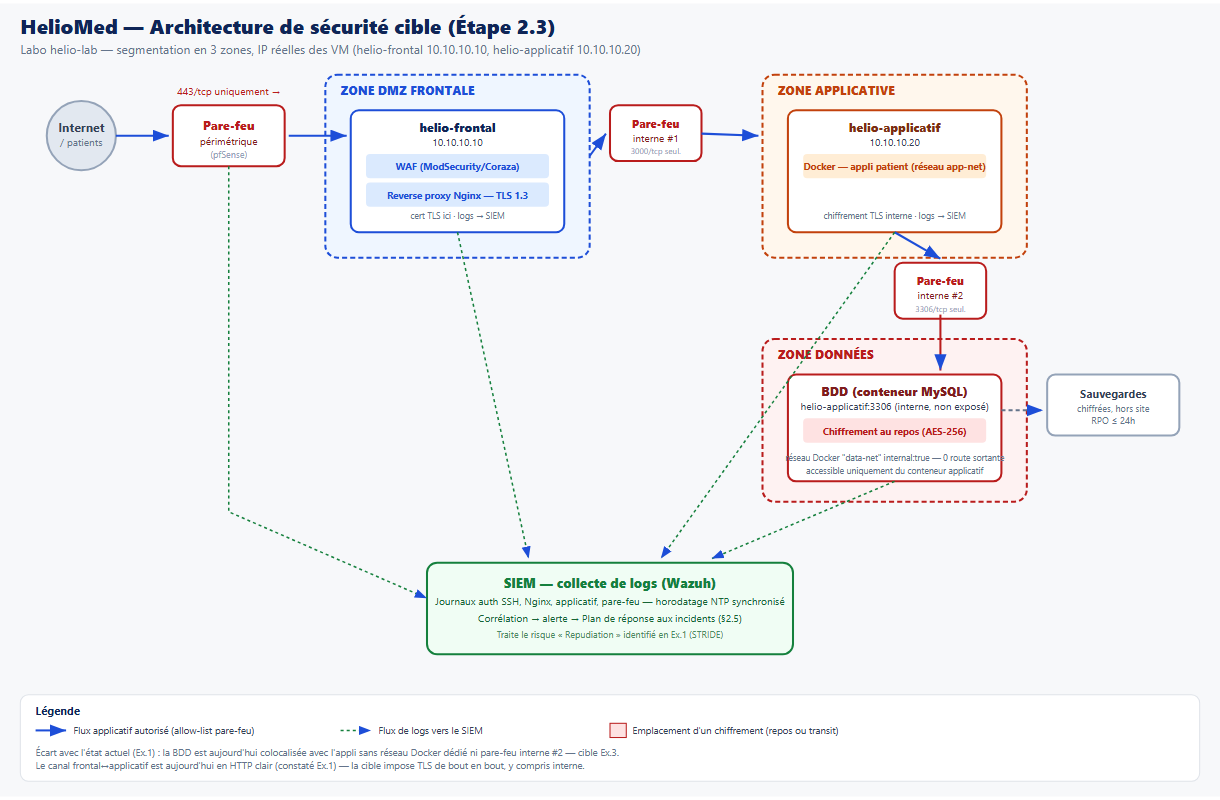
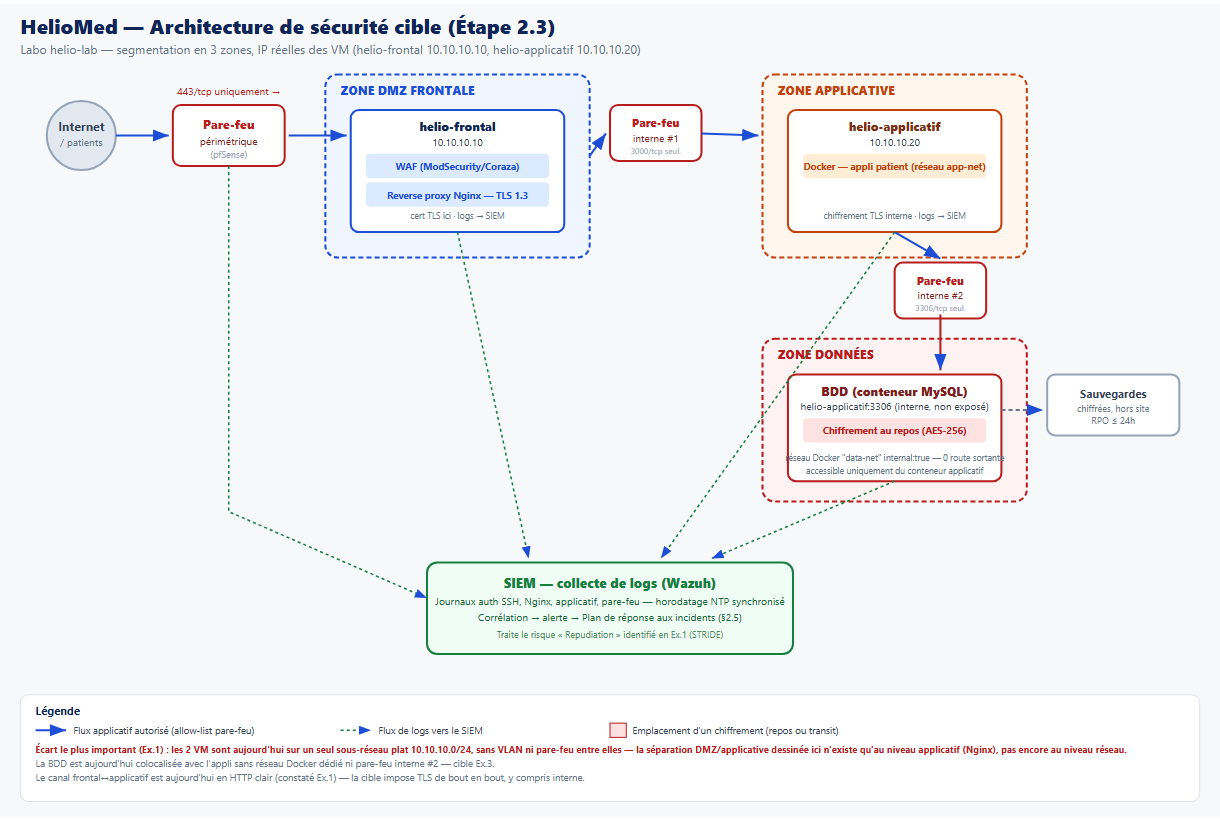
Second severe-review pass on Ex.2: verified ANSSI citations, honest flat-network callout
- Actually fixed the trivy-action pin this time — v0.36.0 needs the
  "v" prefix (checked the real tag list via `gh api`, not just a web
  search summary, after 0.36.0 without "v" also failed CI).
- plan_securite.md / rapport.html: replaced fabricated ANSSI rule
  numbers with ones verified against the real guide content (fetched
  and cross-checked live) — several were wrong, e.g. network
  segmentation was cited as "R15-17" when it's actually règle 21.
  Added a methodology note being upfront about what's verified vs.
  approximate (40 vs 42-rule edition numbering).
- architecture_cible.svg/.png: added the most important honest caveat
  that was previously softened away — the 2 VMs sit on one flat
  10.10.10.0/24 subnet today with no VLAN/firewall between them, so
  the DMZ/applicative split only exists at the Nginx layer, not the
  network layer, yet.

diff --git a/docs/exercice2/rapport.html b/docs/exercice2/rapport.html
@@ -113,25 +113,27 @@
 
   <h2 class="h"><span class="num">1.</span>Mesures de sécurité — Étape 2.1</h2>
   <p style="font-size:8.4pt">15 mesures (minimum 12 requis), reliées à un contrôle ISO/IEC 27002:2022 <b>et</b> à une
-  règle du guide d'hygiène ANSSI. <span class="badge ok">[Ex.1]</span> = corrige directement une faille réelle constatée en Ex.1.</p>
+  règle du guide d'hygiène ANSSI. <span class="badge ok">[Ex.1]</span> = corrige directement une faille réelle constatée en Ex.1.
+  Numéros ANSSI <b>vérifiés</b> contre le contenu réel du guide (une relecture sévère a détecté que la version
+  initiale citait des numéros de mémoire, parfois faux — détail : <code>plan_securite.md</code>).</p>
   <table>
     <thead><tr><th>#</th><th>Mesure</th><th>ISO 27002:2022</th><th>ANSSI</th></tr></thead>
     <tbody>
-      <tr><td>1</td><td>MFA sur tous les accès admin (GitHub, VPN, bastion)</td><td>5.17 · 8.5</td><td>R8</td></tr>
+      <tr><td>1</td><td>MFA sur tous les accès admin (GitHub, VPN, bastion)</td><td>5.17 · 8.5</td><td>R9-10</td></tr>
       <tr><td>2</td><td>Clés SSH individuelles, jamais de compte partagé <span class="badge ok">Ex.1</span></td><td>5.16 · 8.2</td><td>R8</td></tr>
-      <tr><td>3</td><td>Régénération des secrets après clonage de VM <span class="badge ok">Ex.1</span></td><td>8.9 · 8.24</td><td>R15</td></tr>
-      <tr><td>4</td><td>Segmentation réseau 3 zones (DMZ/appli/données)</td><td>8.22 · 8.20</td><td>R15-17</td></tr>
-      <tr><td>5</td><td>Pare-feu à règles explicites, allow-list</td><td>8.20 · 8.21</td><td>R18-19</td></tr>
-      <tr><td>6</td><td>Chiffrement des données de santé au repos</td><td>8.24</td><td>R13</td></tr>
-      <tr><td>7</td><td>Chiffrement en transit TLS, y compris interne</td><td>8.24 · 5.14</td><td>R13</td></tr>
-      <tr><td>8</td><td>Gestionnaire de secrets, fin des mdp en clair <span class="badge ok">Ex.1</span></td><td>8.24 · 5.17</td><td>R5</td></tr>
-      <tr><td>9</td><td>Rotation des secrets (90j / immédiate si fuite) <span class="badge ok">Ex.1</span></td><td>8.24 · 5.18</td><td>R5, R8</td></tr>
-      <tr><td>10</td><td>Journalisation centralisée vers SIEM</td><td>8.15 · 8.16</td><td>R33-35</td></tr>
-      <tr><td>11</td><td>Sauvegardes chiffrées et testées (RPO ≤24h)</td><td>8.13</td><td>R37</td></tr>
-      <tr><td>12</td><td>Durcissement — services inutiles supprimés <span class="badge ok">Ex.1</span></td><td>8.9 · 8.8</td><td>R9-11</td></tr>
-      <tr><td>13</td><td>Gestion des correctifs (patch mgmt, délai max)</td><td>8.8</td><td>R12</td></tr>
-      <tr><td>14</td><td>Sécurité applicative OWASP Top 10 <span class="badge ok">Ex.1</span></td><td>8.26 · 8.28</td><td>R39-41</td></tr>
-      <tr><td>15</td><td>Scan SCA/DAST intégré au pipeline CI/CD</td><td>8.29 · 8.8</td><td>R41</td></tr>
+      <tr><td>3</td><td>Régénération des secrets après clonage de VM <span class="badge ok">Ex.1</span></td><td>8.9 · 8.24</td><td>R12</td></tr>
+      <tr><td>4</td><td>Segmentation réseau 3 zones (DMZ/appli/données)</td><td>8.22 · 8.20</td><td>R21</td></tr>
+      <tr><td>5</td><td>Pare-feu à règles explicites, allow-list</td><td>8.20 · 8.21</td><td>R4, R21</td></tr>
+      <tr><td>6</td><td>Chiffrement des données de santé au repos</td><td>8.24</td><td>R31</td></tr>
+      <tr><td>7</td><td>Chiffrement en transit TLS, y compris interne</td><td>8.24 · 5.14</td><td>R23</td></tr>
+      <tr><td>8</td><td>Gestionnaire de secrets, fin des mdp en clair <span class="badge ok">Ex.1</span></td><td>8.24 · 5.17</td><td>R9</td></tr>
+      <tr><td>9</td><td>Rotation des secrets (90j / immédiate si fuite) <span class="badge ok">Ex.1</span></td><td>8.24 · 5.18</td><td>R12</td></tr>
+      <tr><td>10</td><td>Journalisation centralisée vers SIEM</td><td>8.15 · 8.16</td><td>R26-27</td></tr>
+      <tr><td>11</td><td>Sauvegardes chiffrées et testées (RPO ≤24h)</td><td>8.13</td><td>R36</td></tr>
+      <tr><td>12</td><td>Durcissement — services inutiles supprimés <span class="badge ok">Ex.1</span></td><td>8.9 · 8.8</td><td>R14</td></tr>
+      <tr><td>13</td><td>Gestion des correctifs (patch mgmt, délai max)</td><td>8.8</td><td>R6-7</td></tr>
+      <tr><td>14</td><td>Sécurité applicative OWASP Top 10 <span class="badge ok">Ex.1</span></td><td>8.26 · 8.28</td><td>R23</td></tr>
+      <tr><td>15</td><td>Scan SCA/DAST intégré au pipeline CI/CD</td><td>8.29 · 8.8</td><td>R40</td></tr>
     </tbody>
   </table>
   <p style="font-size:7.6pt;color:var(--ink-soft)">Détail complet : <code>docs/exercice2/plan_securite.md</code>.</p>
@@ -191,9 +193,10 @@
 
   <figure><img src="assets/architecture_cible.png" alt="Architecture cible HelioMed" style="border:1px solid var(--line)"></figure>
 
-  <div class="callout warn"><b>Écarts assumés avec l'état actuel (Ex.1)</b>
-  La BDD est aujourd'hui colocalisée avec l'appli sans réseau Docker dédié ni pare-feu interne #2 ;
-  le canal frontal↔applicatif est en HTTP clair. Ces deux écarts sont la cible prioritaire de l'Ex.3.</div>
+  <div class="callout danger"><b>Écart le plus important, assumé sans le minimiser</b>
+  Les 2 VM sont aujourd'hui sur un <b>seul sous-réseau plat 10.10.10.0/24</b>, sans VLAN ni pare-feu entre elles —
+  la séparation DMZ/applicative n'existe qu'au niveau applicatif (Nginx), pas encore au niveau réseau. La BDD est
+  colocalisée sans réseau Docker dédié ; le canal frontal↔applicatif est en HTTP clair. Ces 3 écarts sont la cible Ex.3.</div>
 
   <div class="page-foot"><span>HelioMed — TP Cybersécurité</span><span>Page 3 / 6</span></div>
 </div>

diff --git a/docs/exercice2/plan_securite.md b/docs/exercice2/plan_securite.md
@@ -1,27 +1,35 @@
 # Plan de sécurité HelioMed — Étape 2.1
 
 15 mesures (minimum 12 requis), chacune reliée à un contrôle **ISO/IEC 27002:2022** (Annexe A) et
-à une recommandation du **Guide d'hygiène informatique ANSSI** (42 règles). Les mesures marquées
+à une recommandation du **Guide d'hygiène informatique ANSSI** (42 mesures). Les mesures marquées
 **[Ex.1]** corrigent directement une vulnérabilité réelle constatée lors de l'audit initial —
 elles ne sont pas génériques.
 
+> **Note de méthode** : les numéros de règles ANSSI ci-dessous ont été **vérifiés a posteriori**
+> contre le contenu réel du guide (via une recherche web ce jour, cf. logbook) après qu'une
+> première relecture sévère a révélé que plusieurs numéros cités initialement de mémoire étaient
+> erronés — ex. la segmentation réseau avait été rattachée à « R15-17 » alors que c'est la
+> **règle 21**. Les numéros ci-dessous s'appuient sur la version « 40 règles » (édition de
+> référence la plus largement documentée en ligne) ; la numérotation de l'édition « 42 mesures »
+> en vigueur peut différer de ±1-2 sur certaines sections non recoupées avec certitude.
+
 | # | Mesure | Catégorie | ISO/IEC 27002:2022 | ANSSI (guide d'hygiène) |
 |---|---|---|---|---|
-| 1 | Authentification multifacteur (MFA) sur tous les accès admin (GitHub, VPN, bastion SSH) | Authentification | 5.17 Authentication information · 8.5 Secure authentication | R8 — Authentification forte pour les accès à privilèges |
-| 2 | Clés SSH **individuelles et nominatives**, jamais de compte/mot de passe partagé entre machines **[Ex.1]** | Authentification | 5.16 Identity management · 8.2 Privileged access rights | R8 — Éviter les comptes génériques/partagés |
-| 3 | Régénération systématique des clés hôte SSH et secrets après tout clonage de VM **[Ex.1]** | Authentification / Durcissement | 8.9 Configuration management · 8.24 Use of cryptography | R15 — Ne pas dupliquer les secrets entre systèmes |
-| 4 | Segmentation réseau en 3 zones : DMZ frontale, zone applicative, zone données (voir schéma §2.3) | Cloisonnement réseau | 8.22 Segregation of networks · 8.20 Networks security | R15-R17 — Cloisonner le système d'information |
-| 5 | Pare-feu avec règles de flux explicites (allow-list), aucun flux zone données → Internet | Cloisonnement réseau | 8.20 Networks security · 8.21 Security of network services | R18-R19 — Maîtriser les accès réseau |
-| 6 | Chiffrement des données de santé au repos (BDD + volumes de sauvegarde, AES-256) | Chiffrement | 8.24 Use of cryptography | R13 — Chiffrer les données sensibles |
-| 7 | Chiffrement en transit : TLS 1.3 sur le reverse proxy **et** entre frontal/applicatif (actuellement HTTP en interne, cf. Ex.1) | Chiffrement | 8.24 Use of cryptography · 5.14 Information transfer | R13 — Chiffrer les flux, y compris internes |
-| 8 | Gestionnaire de secrets (Vault/SOPS) — suppression des mots de passe en clair dans `docker-compose.yml` **[Ex.1]** | Gestion des secrets | 8.24 Use of cryptography · 5.17 Authentication information | R5 — Ne jamais stocker un secret en clair dans le code |
-| 9 | Rotation programmée des secrets (90 jours) et rotation immédiate en cas de fuite constatée **[Ex.1]** | Gestion des secrets | 8.24 · 5.18 Access rights | R5, R8 |
-| 10 | Journalisation centralisée (auth SSH, Nginx, applicatif) vers un SIEM avec horodatage NTP synchronisé | Journalisation | 8.15 Logging · 8.16 Monitoring activities | R33-R35 — Superviser les journaux |
-| 11 | Sauvegardes chiffrées et testées de la BDD santé (RPO ≤ 24h, restauration testée trimestriellement) | Sauvegardes | 8.13 Information backup | R37 — Sauvegarder et tester la restauration |
-| 12 | Durcissement des serveurs : désinstallation des services inutiles (**Samba trouvé actif sans usage, Ex.1**), désactivation des accès root direct | Durcissement | 8.9 Configuration management · 8.8 Management of technical vulnerabilities | R9-R11 — Réduire la surface d'attaque |
-| 13 | Gestion des correctifs (patch management) avec délai maximal (7 j critique / 30 j haute) | Durcissement | 8.8 Management of technical vulnerabilities | R12 — Maintenir les systèmes à jour |
-| 14 | Sécurité applicative OWASP Top 10 : en-têtes CSP/HSTS/X-Frame-Options manquants sur l'appli patient **[Ex.1]**, validation des entrées, requêtes préparées | Sécurité applicative | 8.26 Application security requirements · 8.28 Secure coding | R39-R41 — Sécuriser le développement |
-| 15 | Scan de vulnérabilités (SCA/DAST) intégré au pipeline CI/CD à chaque commit (voir §2.2) | Sécurité applicative / DevSecOps | 8.29 Security testing in development · 8.8 | R41 — Intégrer la sécurité dans le cycle de développement |
+| 1 | Authentification multifacteur (MFA) sur tous les accès admin (GitHub, VPN, bastion SSH) | Authentification | 5.17 Authentication information · 8.5 Secure authentication | R9-R10 — Règles de mots de passe + moyens techniques pour faire respecter l'authentification |
+| 2 | Clés SSH **individuelles et nominatives**, jamais de compte/mot de passe partagé entre machines **[Ex.1]** | Authentification | 5.16 Identity management · 8.2 Privileged access rights | R8 — Identifier nommément chaque individu ayant accès au SI |
+| 3 | Régénération systématique des clés hôte SSH et secrets après tout clonage de VM **[Ex.1]** | Authentification / Durcissement | 8.9 Configuration management · 8.24 Use of cryptography | R12 — Renouveler systématiquement les éléments d'authentification par défaut |
+| 4 | Segmentation réseau en 3 zones : DMZ frontale, zone applicative, zone données (voir schéma §2.3) | Cloisonnement réseau | 8.22 Segregation of networks · 8.20 Networks security | R21 — Mettre en place des réseaux cloisonnés (sous-réseau protégé) |
+| 5 | Pare-feu avec règles de flux explicites (allow-list), aucun flux zone données → Internet | Cloisonnement réseau | 8.20 Networks security · 8.21 Security of network services | R4 — Limiter les accès Internet au strict nécessaire · R21 |
+| 6 | Chiffrement des données de santé au repos (BDD + volumes de sauvegarde, AES-256) | Chiffrement | 8.24 Use of cryptography | R31 — Chiffrer les données sensibles, en particulier sur les équipements exposés |
+| 7 | Chiffrement en transit : TLS 1.3 sur le reverse proxy **et** entre frontal/applicatif (actuellement HTTP en interne, cf. Ex.1) | Chiffrement | 8.24 Use of cryptography · 5.14 Information transfer | R23 — Utiliser systématiquement des applications et protocoles sécurisés |
+| 8 | Gestionnaire de secrets (Vault/SOPS) — suppression des mots de passe en clair dans `docker-compose.yml` **[Ex.1]** | Gestion des secrets | 8.24 Use of cryptography · 5.17 Authentication information | R9 — Règles de choix et de dimensionnement des mots de passe |
+| 9 | Rotation programmée des secrets (90 jours) et rotation immédiate en cas de fuite constatée **[Ex.1]** | Gestion des secrets | 8.24 · 5.18 Access rights | R12 — Renouveler les éléments d'authentification par défaut |
+| 10 | Journalisation centralisée (auth SSH, Nginx, applicatif) vers un SIEM avec horodatage NTP synchronisé | Journalisation | 8.15 Logging · 8.16 Monitoring activities | R26-R27 — Objectifs de supervision + analyse des événements journalisés |
+| 11 | Sauvegardes chiffrées et testées de la BDD santé (RPO ≤ 24h, restauration testée trimestriellement) | Sauvegardes | 8.13 Information backup | R36 — Disposer d'un plan de sauvegarde des données essentielles, le tenir à jour |
+| 12 | Durcissement des serveurs : désinstallation des services inutiles (**Samba trouvé actif sans usage, Ex.1**), désactivation des accès root direct | Durcissement | 8.9 Configuration management · 8.8 Management of technical vulnerabilities | R14 — Niveau de sécurité homogène sur l'ensemble du parc |
+| 13 | Gestion des correctifs (patch management) avec délai maximal (7 j critique / 30 j haute) | Durcissement | 8.8 Management of technical vulnerabilities | R6-R7 — Connaître les modalités de MAJ + définir une politique de mise à jour |
+| 14 | Sécurité applicative OWASP Top 10 : en-têtes CSP/HSTS/X-Frame-Options manquants sur l'appli patient **[Ex.1]**, validation des entrées, requêtes préparées | Sécurité applicative | 8.26 Application security requirements · 8.28 Secure coding | R23 — Applications et protocoles sécurisés |
+| 15 | Scan de vulnérabilités (SCA/DAST) intégré au pipeline CI/CD à chaque commit (voir §2.2) | Sécurité applicative / DevSecOps | 8.29 Security testing in development · 8.8 | R40 — Audits de sécurité périodiques (le scan continu en est la version automatisée) |
 
 ## Priorisation
 
